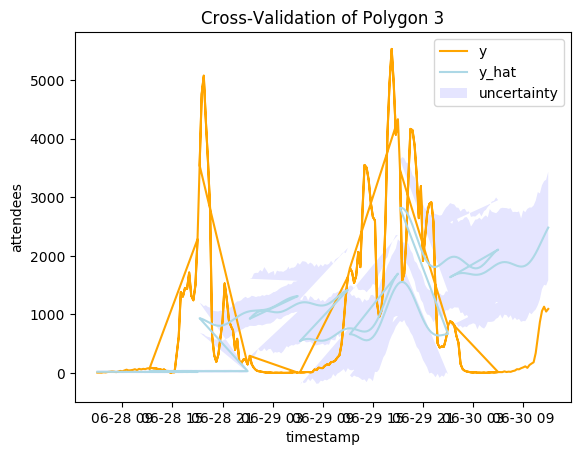
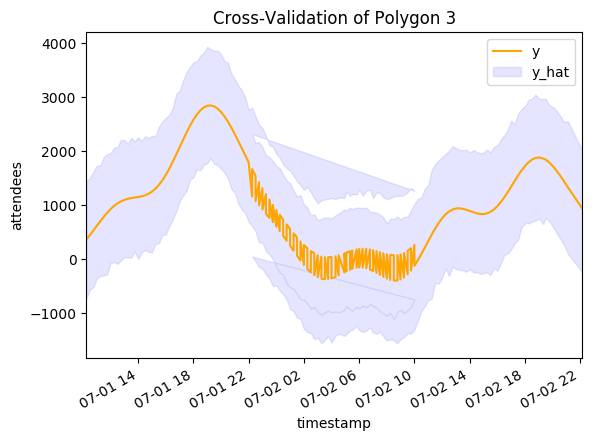
limit timeframe to orange scene activity

diff --git a/ts-fbprophet.py b/ts-fbprophet.py
@@ -9,7 +9,7 @@ import numpy as np
 plt.rcParams['axes.color_cycle'] = ['orange', 'lightblue', 'grey']
 
 # setup forecast
-fc_hours_to_predict = 2 # how far forecast looks into future
+fc_hours_to_predict = 4 # how far forecast looks into future
 # setup cv
 run_cv = True               # run CV yes/no
 cv_horizon_amount = 24       # how far cv looks into future
@@ -17,7 +17,7 @@ cv_horizon_unit = 'hour'    # units: sec, minute, hour, day, week, month
 hr_range_arr = [24, 12, 8, 4, 2, 1] # state model accuracy for these hours for RMSE, R^2, MAPE
 
 # setup data
-plotforecasts, plotcrossvals, plotcvuncertainty = True, False, False
+plotforecasts, plotcrossvals, plotcvuncertainty = False, True, True
 slices_per_hour = 4                                         # 15m = 4, 30m = 2, 60m = 1
 startdate = dateutil.parser.parse('2017-06-28 12:00:00')    # goes from 26-06 to 05-07
 enddate =   dateutil.parser.parse('2017-07-03 12:00:00')
@@ -80,18 +80,22 @@ def evaluate_cv(df_cv, polygon):
     if plotcrossvals:
         plt.figure
         df_plot.plot()
+        plt.fill_between(df_plot.index, df_plot.yhat_lower, df_plot.yhat_upper, facecolor='b', edgecolor='#1B2ACC', antialiased=True, alpha=.1)
         plt.xlabel('timestamp')
         plt.ylabel('attendees')
         plt.title('Cross-Validation of Polygon ' + str(polygon))
         plt.savefig('img/' + 'cv_' + filename_data + '_pol' + str(polygon) + '.png', bbox_inches='tight')
+        plt.show()
         plt.close()
         plt.clf()
     if plotcvuncertainty:
         fig = plt.figure(0)
-        plt.plot(df_plot.index, df_plot.y)
-        plt.plot(df_plot.index, df_plot.yhat)
+        df_plot.yhat.plot()
+        plt.fill_between(df_plot.index, df_plot.yhat_lower, df_plot.yhat_upper, interpolate=False, facecolor='b', edgecolor='#1B2ACC', antialiased=True, alpha=.1)
+        #df_plot.y.plot()
+        #plt.plot(df_plot.index, df_plot.y)
+        #plt.plot(df_plot.index, df_plot.yhat)
         #plt.errorbar(df_plot.index, df_plot.yhat, yerr=[y-df_plot.yhat_upper, y-df_plot.yhat_lower], uplims=True, lolims=True)
-        plt.fill_between(df_plot.index, df_plot.yhat_upper, df_plot.yhat_lower, facecolor='b', alpha=.1)
         plt.legend(['y', 'y_hat', 'uncertainty'])
         plt.xlabel('timestamp')
         plt.ylabel('attendees')
@@ -133,14 +137,14 @@ def parallelise(df_orig, df_polygons):
 if __name__ == "__main__":
     # load data
     df_orig = pd.read_csv(basepath + filename_data)
-    df_polygons = pd.read_csv(basepath + filename_pols, nrows=1)   # TODO:
+    df_polygons = pd.read_csv(basepath + filename_pols, nrows=5)   # TODO:
     list_polygons = df_polygons.values.flatten()
     # parallelise processing
-    #runOneProcess(df_orig, 13)
-    parallelise(df_orig, list_polygons) # TODO: change for debug
+    runOneProcess(df_orig, 5)
+    #parallelise(df_orig, list_polygons) # TODO: change for debug
     # output data
     print(results)
     df_results = pd.DataFrame(results[0][0])    # this list gets nested 2 times (why????) , therefore [0][0]
     df_results = df_results.set_index('POLYGON')
     df_results.to_csv('results.csv')
-    print(df_results.head())
+    print(df_results.head(n=7))
